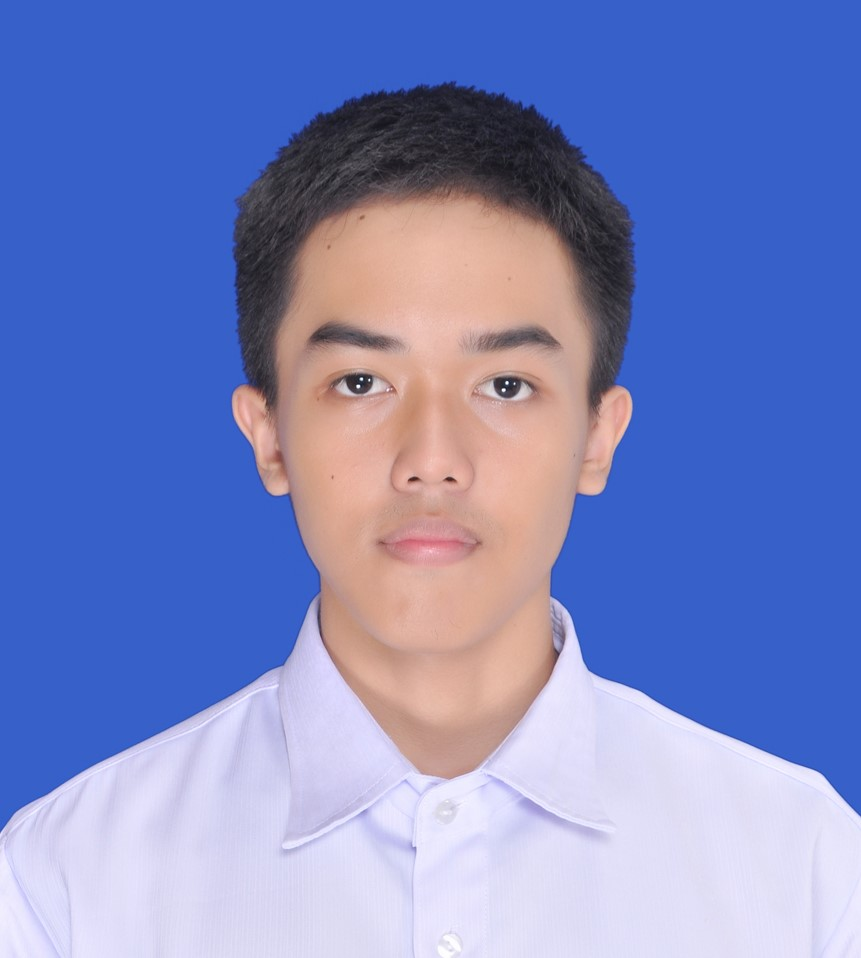
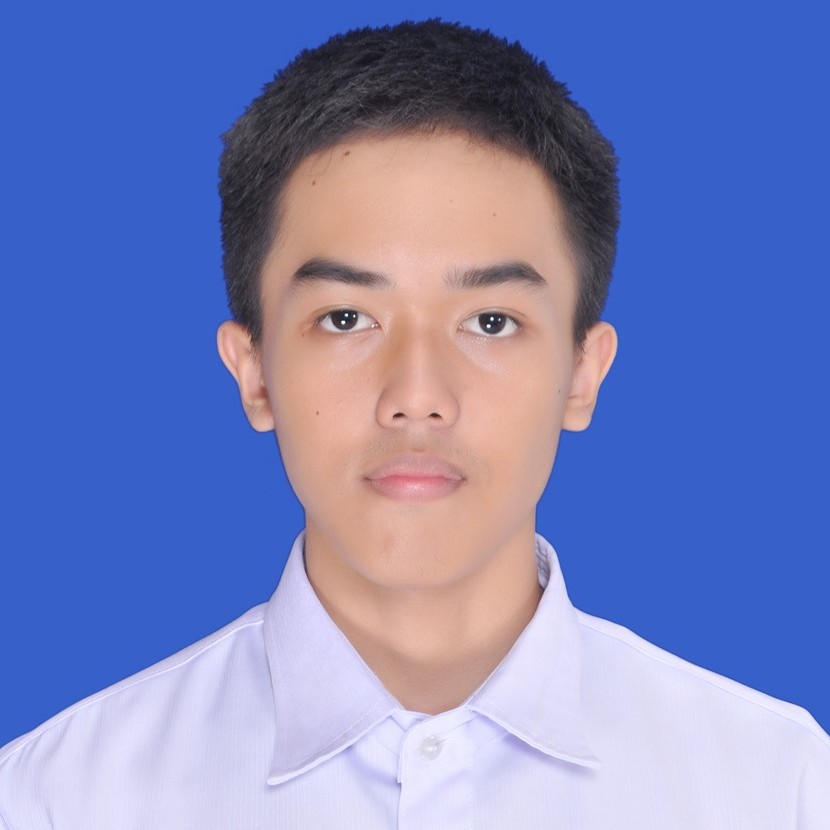
Project 2 Akbar and Croping img assets to square

diff --git a/Tugas Kelompok/Project 2/src/id/ac/its/kelompok/images/LabelFrame.java b/Tugas Kelompok/Project 2/src/id/ac/its/kelompok/images/LabelFrame.java
@@ -1,32 +1,43 @@
 package id.ac.its.kelompok.images;
 
 import java.awt.FlowLayout;
+import java.awt.Image;
+
 import javax.swing.JFrame;
 import javax.swing.JLabel;
 import javax.swing.SwingConstants;
-import javax.swing.Icon;
 import javax.swing.ImageIcon;
 
+
 public class LabelFrame extends JFrame{
-	private final JLabel nameLabel;
-	private final JLabel nrpLabel;
-	private final JLabel imageLabel;
+
+	private static final long serialVersionUID = 1L;
+	//private final JLabel label1;
+	//private final JLabel label2;
+	private final JLabel label3;
 	
 	public LabelFrame() {
 		super("Data Mahasiswa");
 		setLayout(new FlowLayout());
+
+		// Tipe data label udah aku buat tinggal hapus comment aja
+		// cara resize image ikut instansiasi akbarIMG aja 200x200 pixel
+		// udah aku crop jadi kotak semua fotonya
 		
-		Icon img = new ImageIcon(getClass().getResource("/bunga.png"));
-		imageLabel = new JLabel(img, SwingConstants.CENTER);
-		imageLabel.setToolTipText("Foto Mahasiswa");
-		add(imageLabel);
-		
-		nameLabel = new JLabel("Nama");
-		nameLabel.setToolTipText("Nama Mahasiswa");
-		add(nameLabel);
-		
-		nrpLabel = new JLabel("NRP");
-		nrpLabel.setToolTipText("NRP Mahasiswa");
-		add(nrpLabel);		
+		// Label 1
+		// Chris buat disini
+
+		// Label 2
+		// Bunga yang punya kamu dibuat jadi 1 label aja gausah dipisah.
+
+		// Label 3
+		ImageIcon  akbarImg = new ImageIcon(new javax.swing.ImageIcon(getClass().getResource("/akbar.jpg")).getImage().getScaledInstance(200, 200, Image.SCALE_SMOOTH));
+
+		label3 = new JLabel();
+		label3.setText("Muhammad Rizqullah A 05111940000178");
+		label3.setIcon(akbarImg);
+		label3.setHorizontalTextPosition(SwingConstants.CENTER);
+		label3.setVerticalTextPosition(SwingConstants.BOTTOM);
+		add(label3);
 	}
 }

diff --git a/Tugas Kelompok/Project 2/src/id/ac/its/kelompok/images/LabelTest.java b/Tugas Kelompok/Project 2/src/id/ac/its/kelompok/images/LabelTest.java
@@ -7,7 +7,7 @@ public class LabelTest {
 	{
 		LabelFrame labelFrame = new LabelFrame();
 		labelFrame.setDefaultCloseOperation(JFrame.EXIT_ON_CLOSE);
-		labelFrame.setSize(1000, 1000);
+		labelFrame.setSize(1366, 768);
 		labelFrame.setVisible(true);
 	}
 }
